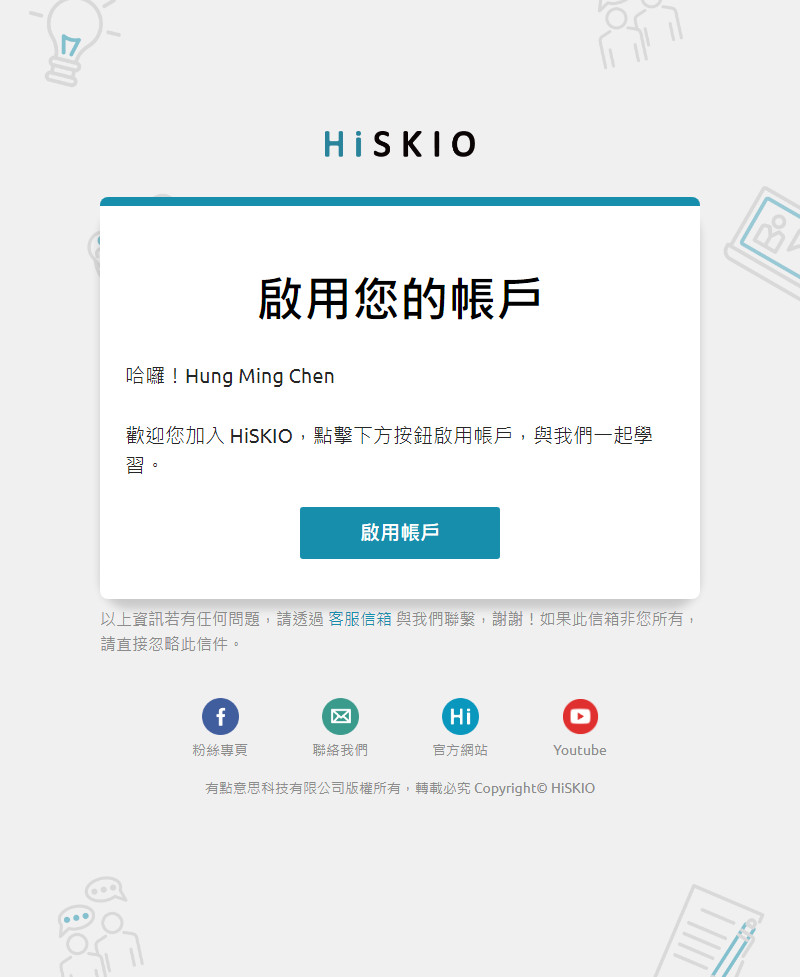
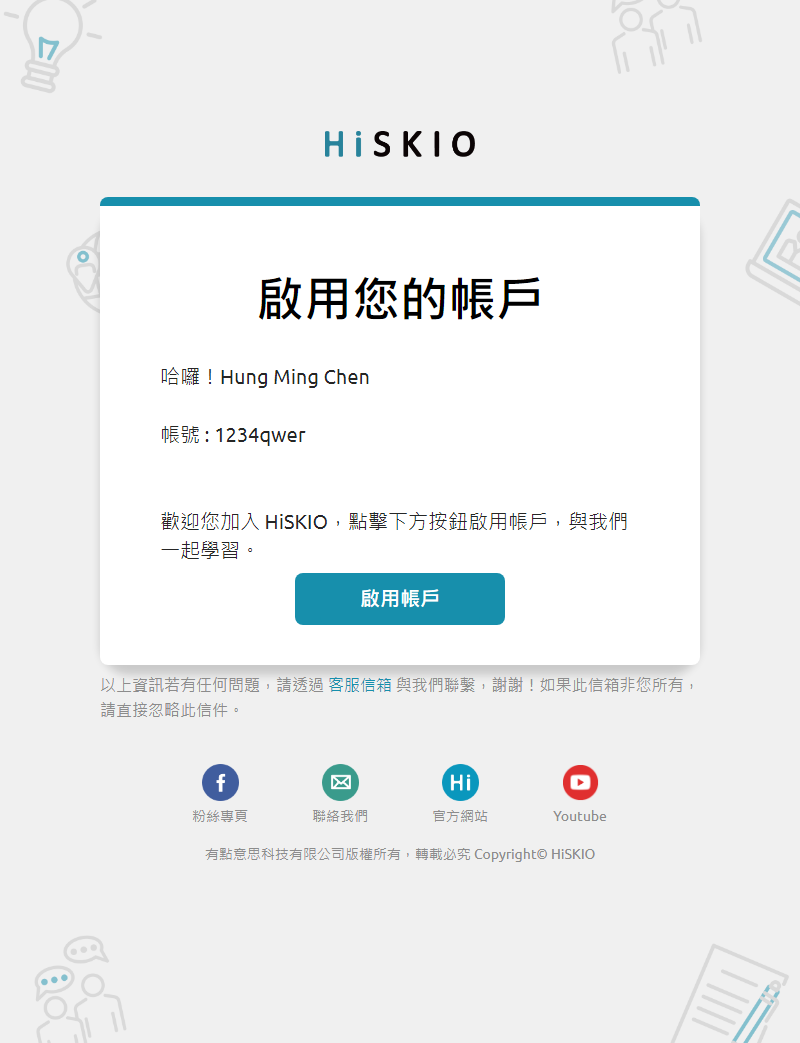
feat: #HI-4184: 啟用帳戶信，新增帳號的顯示

diff --git a/output/emails/L02啟用您的帳戶/index-en.html b/output/emails/L02啟用您的帳戶/index-en.html
@@ -170,7 +170,7 @@
             }
 
             .activate table {
-                width: 200px !important;
+                width: 210px !important;
             }
 
             .activate a {
@@ -246,13 +246,18 @@
                                                                     </td>
                                                                 </tr>
                                                                 <tr>
-                                                                    <td align="left" class="message" style="font-size:0px;padding:10px 25px;padding-top:32px;padding-bottom:30px;word-break:break-word;">
-                                                                        <div style="font-family:Ubuntu, Helvetica, Arial, sans-serif;font-size:16px;line-height:30px;text-align:left;color:#262626;">哈囉！Hung Ming Chen</div>
+                                                                    <td align="left" class="message" style="font-size:0px;padding:10px 25px;padding-top:33px;padding-right:60px;padding-bottom:29px;padding-left:60px;word-break:break-word;">
+                                                                        <div style="font-family:Ubuntu, Helvetica, Arial, sans-serif;font-size:16px;line-height:29px;text-align:left;color:#262626;">哈囉！Hung Ming Chen</div>
                                                                     </td>
                                                                 </tr>
                                                                 <tr>
-                                                                    <td align="left" class="message" style="font-size:0px;padding:10px 25px;padding-top:0;padding-bottom:26px;word-break:break-word;">
-                                                                        <div style="font-family:Ubuntu, Helvetica, Arial, sans-serif;font-size:16px;line-height:30px;text-align:left;color:#262626;">歡迎您加入 HiSKIO，點擊下方按鈕啟用帳戶，與我們一起學習。</div>
+                                                                    <td align="left" class="message" style="font-size:0px;padding:10px 25px;padding-top:0;padding-right:60px;padding-bottom:58px;padding-left:60px;word-break:break-word;">
+                                                                        <div style="font-family:Ubuntu, Helvetica, Arial, sans-serif;font-size:16px;line-height:29px;text-align:left;color:#262626;">帳號 : 1234qwer</div>
+                                                                    </td>
+                                                                </tr>
+                                                                <tr>
+                                                                    <td align="left" class="message" style="font-size:0px;padding:10px 25px;padding-top:0;padding-right:60px;padding-bottom:8px;padding-left:60px;word-break:break-word;">
+                                                                        <div style="font-family:Ubuntu, Helvetica, Arial, sans-serif;font-size:16px;line-height:29px;text-align:left;color:#262626;">歡迎您加入 HiSKIO，點擊下方按鈕啟用帳戶，與我們一起學習。</div>
                                                                     </td>
                                                                 </tr>
                                                                 <tr>
@@ -260,8 +265,8 @@
                                                                         <table border="0" cellpadding="0" cellspacing="0" role="presentation" style="border-collapse: separate; width: 160px; line-height: 100%;" width="160">
                                                                             <tbody>
                                                                                 <tr>
-                                                                                    <td align="center" bgcolor="#178fac" role="presentation" style="border:none;border-radius:3px;cursor:auto;mso-padding-alt:10px 25px;background:#178fac;" valign="middle">
-                                                                                        <a href="#" style="display:inline-block;width:110px;background:#178fac;color:#ffffff;font-family:Ubuntu, Helvetica, Arial, sans-serif;font-size:16px;font-weight:bold;line-height:1.6;margin:0;text-decoration:none;text-transform:none;padding:10px 25px;mso-padding-alt:0px;border-radius:3px;" target="_blank">
+                                                                                    <td align="center" bgcolor="#178fac" role="presentation" style="border:none;border-radius:8px;cursor:auto;mso-padding-alt:10px 25px;background:#178fac;" valign="middle">
+                                                                                        <a href="#" style="display:inline-block;width:110px;background:#178fac;color:#ffffff;font-family:Ubuntu, Helvetica, Arial, sans-serif;font-size:16px;font-weight:bold;line-height:1.6;margin:0;text-decoration:none;text-transform:none;padding:10px 25px;mso-padding-alt:0px;border-radius:8px;" target="_blank">
                                                                                             啟用帳戶
                                                                                         </a>
                                                                                     </td>

diff --git a/output/emails/L02啟用您的帳戶/index-zh-CN.html b/output/emails/L02啟用您的帳戶/index-zh-CN.html
@@ -170,7 +170,7 @@
             }
 
             .activate table {
-                width: 200px !important;
+                width: 210px !important;
             }
 
             .activate a {
@@ -246,13 +246,18 @@
                                                                     </td>
                                                                 </tr>
                                                                 <tr>
-                                                                    <td align="left" class="message" style="font-size:0px;padding:10px 25px;padding-top:32px;padding-bottom:30px;word-break:break-word;">
-                                                                        <div style="font-family:Ubuntu, Helvetica, Arial, sans-serif;font-size:16px;line-height:30px;text-align:left;color:#262626;">哈囉！Hung Ming Chen</div>
+                                                                    <td align="left" class="message" style="font-size:0px;padding:10px 25px;padding-top:33px;padding-right:60px;padding-bottom:29px;padding-left:60px;word-break:break-word;">
+                                                                        <div style="font-family:Ubuntu, Helvetica, Arial, sans-serif;font-size:16px;line-height:29px;text-align:left;color:#262626;">哈囉！Hung Ming Chen</div>
                                                                     </td>
                                                                 </tr>
                                                                 <tr>
-                                                                    <td align="left" class="message" style="font-size:0px;padding:10px 25px;padding-top:0;padding-bottom:26px;word-break:break-word;">
-                                                                        <div style="font-family:Ubuntu, Helvetica, Arial, sans-serif;font-size:16px;line-height:30px;text-align:left;color:#262626;">歡迎您加入 HiSKIO，點擊下方按鈕啟用帳戶，與我們一起學習。</div>
+                                                                    <td align="left" class="message" style="font-size:0px;padding:10px 25px;padding-top:0;padding-right:60px;padding-bottom:58px;padding-left:60px;word-break:break-word;">
+                                                                        <div style="font-family:Ubuntu, Helvetica, Arial, sans-serif;font-size:16px;line-height:29px;text-align:left;color:#262626;">帳號 : 1234qwer</div>
+                                                                    </td>
+                                                                </tr>
+                                                                <tr>
+                                                                    <td align="left" class="message" style="font-size:0px;padding:10px 25px;padding-top:0;padding-right:60px;padding-bottom:8px;padding-left:60px;word-break:break-word;">
+                                                                        <div style="font-family:Ubuntu, Helvetica, Arial, sans-serif;font-size:16px;line-height:29px;text-align:left;color:#262626;">歡迎您加入 HiSKIO，點擊下方按鈕啟用帳戶，與我們一起學習。</div>
                                                                     </td>
                                                                 </tr>
                                                                 <tr>
@@ -260,8 +265,8 @@
                                                                         <table border="0" cellpadding="0" cellspacing="0" role="presentation" style="border-collapse: separate; width: 160px; line-height: 100%;" width="160">
                                                                             <tbody>
                                                                                 <tr>
-                                                                                    <td align="center" bgcolor="#178fac" role="presentation" style="border:none;border-radius:3px;cursor:auto;mso-padding-alt:10px 25px;background:#178fac;" valign="middle">
-                                                                                        <a href="#" style="display:inline-block;width:110px;background:#178fac;color:#ffffff;font-family:Ubuntu, Helvetica, Arial, sans-serif;font-size:16px;font-weight:bold;line-height:1.6;margin:0;text-decoration:none;text-transform:none;padding:10px 25px;mso-padding-alt:0px;border-radius:3px;" target="_blank">
+                                                                                    <td align="center" bgcolor="#178fac" role="presentation" style="border:none;border-radius:8px;cursor:auto;mso-padding-alt:10px 25px;background:#178fac;" valign="middle">
+                                                                                        <a href="#" style="display:inline-block;width:110px;background:#178fac;color:#ffffff;font-family:Ubuntu, Helvetica, Arial, sans-serif;font-size:16px;font-weight:bold;line-height:1.6;margin:0;text-decoration:none;text-transform:none;padding:10px 25px;mso-padding-alt:0px;border-radius:8px;" target="_blank">
                                                                                             啟用帳戶
                                                                                         </a>
                                                                                     </td>

diff --git a/output/emails/L02啟用您的帳戶/index-zh-TW.html b/output/emails/L02啟用您的帳戶/index-zh-TW.html
@@ -170,7 +170,7 @@
             }
 
             .activate table {
-                width: 200px !important;
+                width: 210px !important;
             }
 
             .activate a {
@@ -246,13 +246,18 @@
                                                                     </td>
                                                                 </tr>
                                                                 <tr>
-                                                                    <td align="left" class="message" style="font-size:0px;padding:10px 25px;padding-top:32px;padding-bottom:30px;word-break:break-word;">
-                                                                        <div style="font-family:Ubuntu, Helvetica, Arial, sans-serif;font-size:16px;line-height:30px;text-align:left;color:#262626;">哈囉！Hung Ming Chen</div>
+                                                                    <td align="left" class="message" style="font-size:0px;padding:10px 25px;padding-top:33px;padding-right:60px;padding-bottom:29px;padding-left:60px;word-break:break-word;">
+                                                                        <div style="font-family:Ubuntu, Helvetica, Arial, sans-serif;font-size:16px;line-height:29px;text-align:left;color:#262626;">哈囉！Hung Ming Chen</div>
                                                                     </td>
                                                                 </tr>
                                                                 <tr>
-                                                                    <td align="left" class="message" style="font-size:0px;padding:10px 25px;padding-top:0;padding-bottom:26px;word-break:break-word;">
-                                                                        <div style="font-family:Ubuntu, Helvetica, Arial, sans-serif;font-size:16px;line-height:30px;text-align:left;color:#262626;">歡迎您加入 HiSKIO，點擊下方按鈕啟用帳戶，與我們一起學習。</div>
+                                                                    <td align="left" class="message" style="font-size:0px;padding:10px 25px;padding-top:0;padding-right:60px;padding-bottom:58px;padding-left:60px;word-break:break-word;">
+                                                                        <div style="font-family:Ubuntu, Helvetica, Arial, sans-serif;font-size:16px;line-height:29px;text-align:left;color:#262626;">帳號 : 1234qwer</div>
+                                                                    </td>
+                                                                </tr>
+                                                                <tr>
+                                                                    <td align="left" class="message" style="font-size:0px;padding:10px 25px;padding-top:0;padding-right:60px;padding-bottom:8px;padding-left:60px;word-break:break-word;">
+                                                                        <div style="font-family:Ubuntu, Helvetica, Arial, sans-serif;font-size:16px;line-height:29px;text-align:left;color:#262626;">歡迎您加入 HiSKIO，點擊下方按鈕啟用帳戶，與我們一起學習。</div>
                                                                     </td>
                                                                 </tr>
                                                                 <tr>
@@ -260,8 +265,8 @@
                                                                         <table border="0" cellpadding="0" cellspacing="0" role="presentation" style="border-collapse: separate; width: 160px; line-height: 100%;" width="160">
                                                                             <tbody>
                                                                                 <tr>
-                                                                                    <td align="center" bgcolor="#178fac" role="presentation" style="border:none;border-radius:3px;cursor:auto;mso-padding-alt:10px 25px;background:#178fac;" valign="middle">
-                                                                                        <a href="#" style="display:inline-block;width:110px;background:#178fac;color:#ffffff;font-family:Ubuntu, Helvetica, Arial, sans-serif;font-size:16px;font-weight:bold;line-height:1.6;margin:0;text-decoration:none;text-transform:none;padding:10px 25px;mso-padding-alt:0px;border-radius:3px;" target="_blank">
+                                                                                    <td align="center" bgcolor="#178fac" role="presentation" style="border:none;border-radius:8px;cursor:auto;mso-padding-alt:10px 25px;background:#178fac;" valign="middle">
+                                                                                        <a href="#" style="display:inline-block;width:110px;background:#178fac;color:#ffffff;font-family:Ubuntu, Helvetica, Arial, sans-serif;font-size:16px;font-weight:bold;line-height:1.6;margin:0;text-decoration:none;text-transform:none;padding:10px 25px;mso-padding-alt:0px;border-radius:8px;" target="_blank">
                                                                                             啟用帳戶
                                                                                         </a>
                                                                                     </td>
